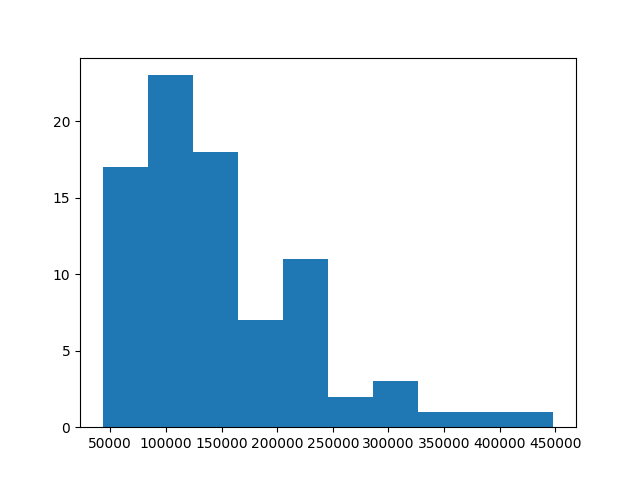
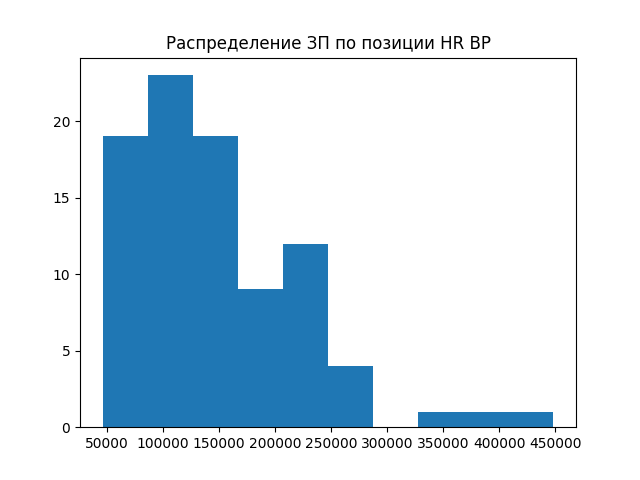
Stats update+drop record function

diff --git a/templates/results.html b/templates/results.html
@@ -7,11 +7,9 @@
         }
 // ]]>
 </script>
-<style>
-</style>
 </head>
 {% extends 'base.html' %}
-{% block title %}HH Parcer - Flask{% endblock %}
+{% block title %}HH Parcer{% endblock %}
 {% block content %}
 
 <div id="controls" class="row justify-content-between">
@@ -39,9 +37,10 @@
 
 <h5>Выгрузка по запросу "{{req}}"</h5>
 <div class="row">
-	<div class="col-md-7 d-flex flex-nowrap bg-light p-3 border">
-		<table>
-			<tr>
+	<div class="col-md-7 align-top d-flex flex-nowrap p-3 border order-sm-1 order-2">
+		<table class="table table-striped">
+			<tr style="background-color:lightblue;">
+			<th></th>
 			<th>Имя вакансии</th>
 			<th>Город</th>
 			<th>Работодатель</th>
@@ -49,6 +48,15 @@
 			</tr>
 				{%for index, row in vacancies_table.iterrows() %}
 				<tr>
+				<td>
+				<a href="/{{row['vac_id']}}">
+						<i style="color:red;"
+						class="fa fa-ban" 
+						aria-hidden="true" 
+						title="Убрать из подборки" 
+						onclick="return confirm('Вы хотите убрать из подборки вакансию {{row['name']}}?');"></i>
+					</a>
+				</td>
 				<td style="width:30%;">
 				<a href={{row['url']}}>{{row['name']}}</a>
 				</td>
@@ -66,9 +74,20 @@
 		</table>
 	</div>
 	
-	<div class="bd-placeholder-img col-md-5 float-md-end">
-	<img style="display:block; width:100%;" src="{{hist_img_path}}"/>
+	<div class="col-md-5 float-end order-1 p-3 border" >
+		<div class="row justify-content-center">
+			<table class="table table-striped mx-auto w-auto">
+			{% for key, value in stats.items() %}
+				<tr>
+					<td> {{ key }} </td>
+					<td> {{ value }} </td>
+				</tr>
+			{% endfor %}
+			</table>
+		</div>
+		<div class="bd-placeholder-img float-end" >
+			<img style="display:block; width:100%;" src="{{hist_img_path}}"/>
+		</div>
 	</div>
-	
 </div>
 {% endblock %}

diff --git a/templates/base.html b/templates/base.html
@@ -18,7 +18,7 @@
 <!-- навигация -->
 <nav class="navbar navbar-expand-lg navbar-light bg-light">
     <div class="container">
-        <a class="navbar-brand" href="#">Тест Flask</a>
+        <a class="navbar-brand" href="#">Анализ ЗП по hh.ru</a>
         <button class="navbar-toggler" type="button" data-bs-toggle="collapse"
                 data-bs-target="#navbarNav" aria-controls="navbarNav"
                 aria-expanded="false" aria-label="Toggle navigation">
@@ -53,7 +53,7 @@
   {% endif %}
 {% endwith %}
 <!-- контент дочерних шаблонов -->
-<div class="container-xxl">
+<div class="container">
     {% block content %}
     {% endblock %}
 </div>

diff --git a/static/custom.css b/static/custom.css
@@ -4,6 +4,7 @@ table {
 	width:100%;
 	word-break: break-word;
 }
+
 th,td {
 	padding: 7px;
 	border: 1px solid black;

diff --git a/app.py b/app.py
@@ -6,6 +6,7 @@ import matplotlib
 matplotlib.use('Agg')
 import matplotlib.pyplot as plt
 import datetime as dt
+from waitress import serve
 app = Flask(__name__)
 #conversion functions for salary
 conversion_rates = {'USD': 90,'EUR': 110,'KZT': 0.20}
@@ -61,11 +62,25 @@ def get_vac_id(hh_url):
 			vac_id+=str(i)
 	vac_id=int(vac_id)
 	return vac_id
+def get_stats(df):
+	stats={
+	'Средняя ЗП':round(df.describe()['salary_gross_RUR']['mean']),
+	'25 перцентиль':round(df.describe()['salary_gross_RUR']['25%']),
+	'50 перцентиль (медиана)':round(df.describe()['salary_gross_RUR']['50%']),
+	'75 перцентиль':round(df.describe()['salary_gross_RUR']['75%']),
+	'90 перцентиль':round(np.percentile(df['salary_gross_RUR'],90)),
+	'Максимум':round(df.describe()['salary_gross_RUR']['max'])
+	}
+	return stats
+global banned_id_list
+banned_id_list=[]
 #Получение вакансий
 @app.route('/',methods=['GET', 'POST'])
 def get_vacancies():
 	if request.method == 'POST':
+		global text
 		text=request.form['vacancy']
+		banned_id_list=[]
 	else:
 		return render_template('index.html')
 	try:
@@ -80,6 +95,7 @@ def get_vacancies():
 			for j in range(0,len(page_content_items)):
 				for k in vac.keys():
 					vac[k].append(page_content_items[j].get(k))
+		global df
 		df=pd.DataFrame.from_dict(vac, orient='columns')
 		#Очищаем названия городов,работодателей, URL
 		df['area']=df['area'].apply(get_city)
@@ -92,23 +108,36 @@ def get_vacancies():
 		df['single_number_RUR']= df['salary_RUR'].apply(calculate_single_number)
 		df.loc[df['salary_RUR'].apply(lambda x: not x['gross']), 'single_number_RUR'] /= 0.87
 		df['salary_gross_RUR']=df['single_number_RUR'].apply(round)
-	
 		df=df[['vac_id','name','area','url','employer','salary_gross_RUR']].reset_index(drop=True)
+		stats=get_stats(df)
 		#Гистограмма
 		plt.clf()
 		plt.hist(df['salary_gross_RUR'])
 		plt.title("Распределение ЗП по позиции "+text)
-		hist_img_path="static/images/last_salary_hist_"+str(dt.datetime.now().timestamp())+".png"
+		global hist_img_path
+		hist_img_path="static/images/last_salary_hist.png"
 		plt.savefig(hist_img_path)
-		return render_template('results.html',vacancies_table=df,req=request.form['vacancy'],hist_img_path=hist_img_path)
+		return render_template('results.html',vacancies_table=df,req=request.form['vacancy'],hist_img_path=hist_img_path,stats=stats)
 
-	except Exception as error:
-		return render_template('index.html',err='Ошибка при загрузке'+str(error)+'\n Вот что отдало API:'+str(page_content))
+	except Exception:
+		import traceback
+		return render_template('index.html',err='Ошибка при загрузке'+str(traceback.format_exc())+'\n Вот что отдало API:'+str(page_content)[0:200])
+
+@app.route("/<int:v_id>",methods=['GET', 'POST'])
+def delete_row(v_id):
+	banned_id_list.append(v_id)
+	vacancies_filtered=df[~df.vac_id.isin(banned_id_list)]
+	plt.clf()
+	plt.hist(vacancies_filtered['salary_gross_RUR'])
+	plt.title("Распределение ЗП по позиции "+text)
+	plt.savefig(hist_img_path)
+	stats=get_stats(vacancies_filtered)
+	return render_template('results.html',vacancies_table=vacancies_filtered,req=text,hist_img_path=hist_img_path,stats=stats)
+
 @app.route("/clear/",methods=['GET', 'POST'])
 def clear():
 	return render_template('index.html')	
 	
 if __name__=='__main__':
-	from waitress import serve
 	serve(app, host="0.0.0.0", port=8000)
 	#app.run(port=8000,debug=True)
